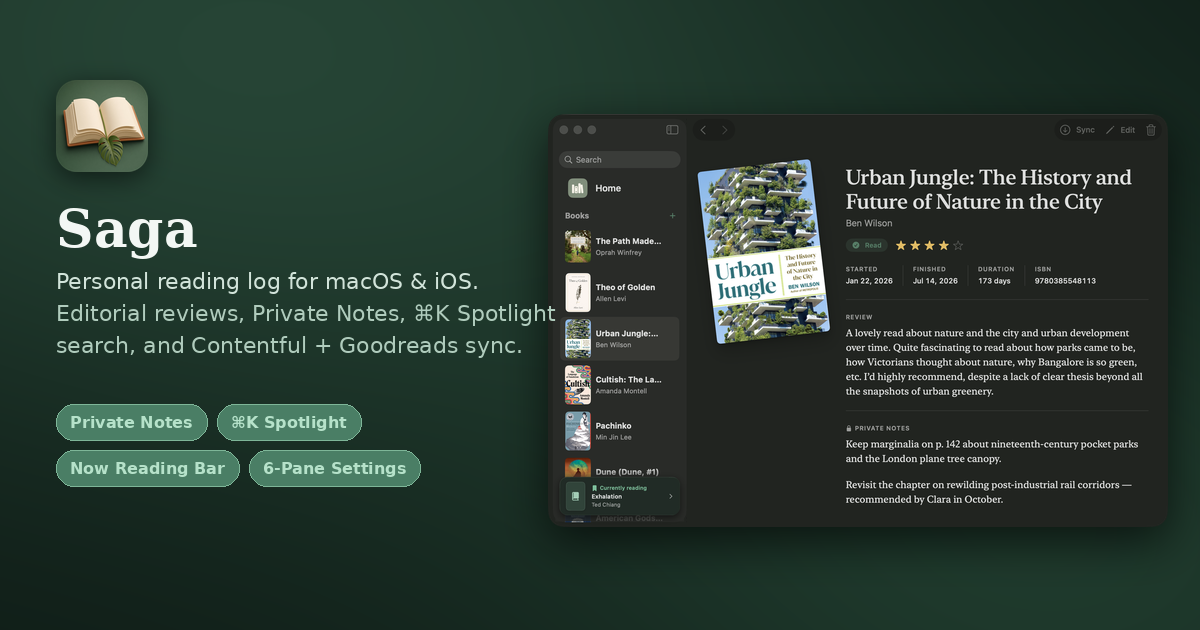
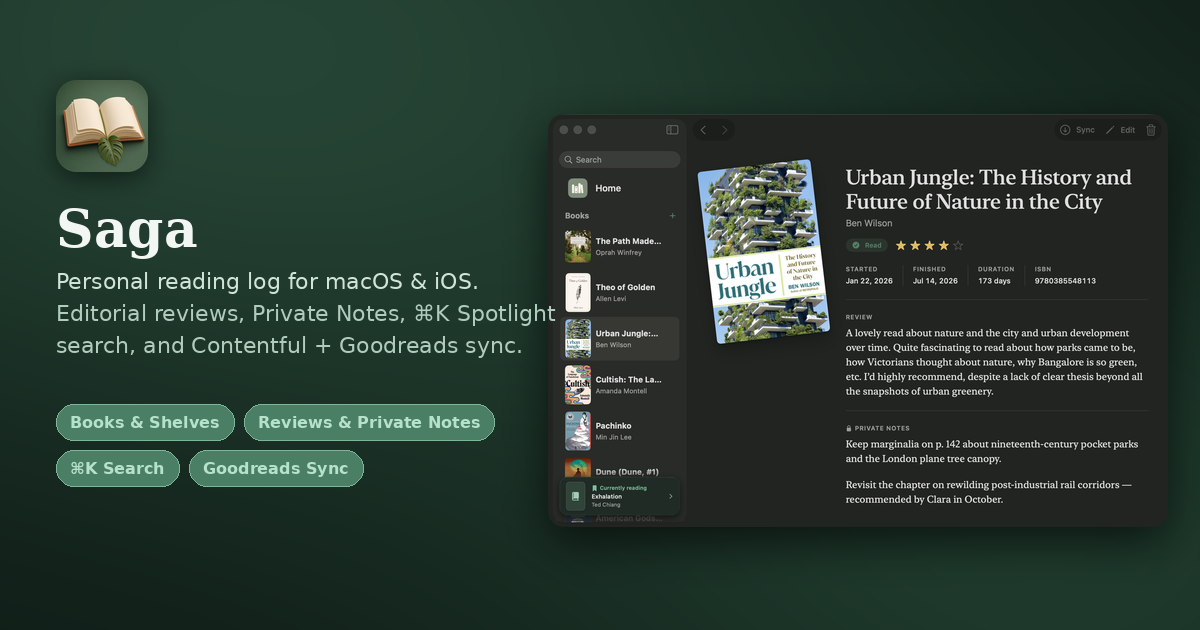
Keep saga.gattey.com landing page clean and reader-focused (remove Settings/About previews)

Changed region(s): [[0.0617, 0.6333, 0.4317, 0.7841]]

diff --git a/server/app/page.tsx b/server/app/page.tsx
@@ -1,5 +1,4 @@
 import { getMacOSRelease } from "@/lib/macos-release";
-import { PreviewShowcase } from "./PreviewShowcase";
 import styles from "./page.module.css";
 
 export const revalidate = 60;
@@ -11,7 +10,15 @@ export default async function HomePage() {
     <main className={styles.page}>
       <div className={styles.heroUnit}>
         <div className={styles.photoColumn}>
-          <PreviewShowcase />
+          {/* eslint-disable-next-line @next/next/no-img-element */}
+          <img
+            src="/saga-preview.png"
+            alt="Saga book library and reading tracker on macOS showing editorial reviews, private notes, and the Currently reading sidebar card"
+            width={1600}
+            height={1067}
+            fetchPriority="high"
+            className={styles.windowPreview}
+          />
         </div>
 
         <div className={styles.downloadColumn}>
@@ -21,11 +28,11 @@ export default async function HomePage() {
               <img
                 src="/icon-192.png"
                 alt="Saga app icon — open hardcover book with a monstera leaf bookmark"
-                width={60}
-                height={60}
+                width={56}
+                height={56}
                 className={styles.appIcon}
               />
-              <span className={styles.badge}>macOS · iOS · Apple Silicon</span>
+              <span className={styles.badge}>macOS 15+ · iOS · Apple Silicon</span>
             </div>
             <h1 className={styles.title}>Welcome to Saga</h1>
             <p className={styles.subtitle}>
@@ -39,14 +46,29 @@ export default async function HomePage() {
               <div className={styles.featureHeader}>
                 <span className={styles.featureIcon} aria-hidden="true">
                   <svg viewBox="0 0 16 16" fill="currentColor" width="14" height="14">
+                    <path d="M4.25 2A1.75 1.75 0 0 0 2.5 3.75v9.81a.75.75 0 0 0 1.22.58L8 10.72l4.28 3.42a.75.75 0 0 0 1.22-.58V3.75A1.75 1.75 0 0 0 11.75 2h-7.5Z" />
+                  </svg>
+                </span>
+                <strong className={styles.featureTitle}>Books & Active Reading</strong>
+              </div>
+              <p className={styles.featureBody}>
+                Track what you’re reading, finished dates, and star ratings with a pinned{" "}
+                <em>Currently reading</em> card always one click away.
+              </p>
+            </li>
+
+            <li className={styles.featureCard}>
+              <div className={styles.featureHeader}>
+                <span className={styles.featureIcon} aria-hidden="true">
+                  <svg viewBox="0 0 16 16" fill="currentColor" width="14" height="14">
                     <path d="M8 1.5a3.5 3.5 0 0 0-3.5 3.5v2H3.75A1.75 1.75 0 0 0 2 8.75v4.5C2 14.216 2.784 15 3.75 15h8.5A1.75 1.75 0 0 0 14 13.25v-4.5A1.75 1.75 0 0 0 12.25 7H11.5V5A3.5 3.5 0 0 0 8 1.5ZM6 5a2 2 0 1 1 4 0v2H6V5Z" />
                   </svg>
                 </span>
                 <strong className={styles.featureTitle}>Private Notes & Reviews</strong>
               </div>
               <p className={styles.featureBody}>
-                Editorial book layout with public reviews alongside a locked{" "}
-                <code>Private Notes</code> section that stays in Saga.
+                Editorial book pages pair public reviews with a locked <code>Private Notes</code>{" "}
+                section for personal quotes and marginalia.
               </p>
             </li>
 
@@ -57,11 +79,11 @@ export default async function HomePage() {
                     <path d="M11.5 7a4.5 4.5 0 1 1-9 0 4.5 4.5 0 0 1 9 0Zm-.82 4.74a6 6 0 1 1 1.06-1.06l2.79 2.79a.75.75 0 1 1-1.06 1.06l-2.79-2.79Z" />
                   </svg>
                 </span>
-                <strong className={styles.featureTitle}>⌘K Spotlight Search</strong>
+                <strong className={styles.featureTitle}>Instant ⌘K Search</strong>
               </div>
               <p className={styles.featureBody}>
-                Instant search across titles, reviews, and notes with <code>Has notes</code>,
-                status, star rating, and year filter tokens.
+                Jump to any book or search across full reviews and private notes with{" "}
+                <code>Has notes</code>, status, rating, and year tokens.
               </p>
             </li>
 
@@ -69,30 +91,14 @@ export default async function HomePage() {
               <div className={styles.featureHeader}>
                 <span className={styles.featureIcon} aria-hidden="true">
                   <svg viewBox="0 0 16 16" fill="currentColor" width="14" height="14">
-                    <path d="M4.25 2A1.75 1.75 0 0 0 2.5 3.75v9.81a.75.75 0 0 0 1.22.58L8 10.72l4.28 3.42a.75.75 0 0 0 1.22-.58V3.75A1.75 1.75 0 0 0 11.75 2h-7.5Z" />
+                    <path d="M8 2.5a5.487 5.487 0 0 0-4.131 1.869l1.204 1.204A.25.25 0 0 1 4.896 6H1.25A.25.25 0 0 1 1 5.75V2.104a.25.25 0 0 1 .427-.177l1.38 1.38A7.002 7.002 0 0 1 14.95 7.16a.75.75 0 0 1-1.49.178A5.5 5.5 0 0 0 8 2.5ZM1.705 8.005a.75.75 0 0 1 .834.656 5.5 5.5 0 0 0 9.592 2.97l-1.204-1.204a.25.25 0 0 1 .177-.427h3.646a.25.25 0 0 1 .25.25v3.646a.25.25 0 0 1-.427.177l-1.38-1.38A7.002 7.002 0 0 1 1.05 8.84a.75.75 0 0 1 .656-.835Z" />
                   </svg>
                 </span>
-                <strong className={styles.featureTitle}>Currently Reading Bar</strong>
+                <strong className={styles.featureTitle}>Cloud & Goodreads Sync</strong>
               </div>
               <p className={styles.featureBody}>
-                Crisp frosted floating bar pinned to the sidebar on macOS and iOS for one-click
-                access to your active book.
-              </p>
-            </li>
-
-            <li className={styles.featureCard}>
-              <div className={styles.featureHeader}>
-                <span className={styles.featureIcon} aria-hidden="true">
-                  <svg viewBox="0 0 16 16" fill="currentColor" width="14" height="14">
-                    <path d="M2 3.75A.75.75 0 0 1 2.75 3h6.5a.75.75 0 0 1 0 1.5h-6.5A.75.75 0 0 1 2 3.75Zm9.5 0a1.75 1.75 0 1 1 3.5 0 1.75 1.75 0 0 1-3.5 0ZM1.25 8a1.75 1.75 0 1 1 3.5 0 1.75 1.75 0 0 1-3.5 0ZM6.75 7.25a.75.75 0 0 0 0 1.5h6.5a.75.75 0 0 0 0-1.5h-6.5ZM2 12.25a.75.75 0 0 1 .75-.75h6.5a.75.75 0 0 1 0 1.5h-6.5a.75.75 0 0 1-.75-.75Zm9.5 0a1.75 1.75 0 1 1 3.5 0 1.75 1.75 0 0 1-3.5 0Z" />
-                  </svg>
-                </span>
-                <strong className={styles.featureTitle}>6-Pane Native Settings</strong>
-              </div>
-              <p className={styles.featureBody}>
-                Categorized <code>General</code>, <code>Sync</code>, <code>Storage</code>,{" "}
-                <code>Animations</code>, <code>Credits</code>, and <code>About</code> panes with
-                stepped cache sliders.
+                Two-way Contentful sync and automatic Goodreads shelf imports keep your library up
+                to date across macOS and iOS.
               </p>
             </li>
           </ul>

diff --git a/server/app/page.module.css b/server/app/page.module.css
@@ -4,15 +4,12 @@
   --glass-base: #0e1a15;
   --glass-tint: rgba(74, 126, 101, 0.16);
   --card-bg: rgba(255, 255, 255, 0.045);
-  --card-bg-active: rgba(93, 148, 120, 0.16);
   --card-border: rgba(255, 255, 255, 0.1);
-  --card-border-active: rgba(132, 194, 160, 0.48);
   --badge-bg: rgba(107, 152, 129, 0.16);
   --badge-border: rgba(107, 152, 129, 0.32);
   --badge-text: #a8d4bc;
   --text: #f3f7f4;
   --text-secondary: rgba(226, 238, 231, 0.74);
-  --text-muted: rgba(202, 220, 210, 0.58);
   --frame: #14241d;
   --divider: rgba(255, 255, 255, 0.1);
 
@@ -20,7 +17,7 @@
   display: flex;
   align-items: center;
   justify-content: center;
-  padding: 44px 40px;
+  padding: 56px 40px;
   color: var(--text);
   overflow-y: auto;
   background:
@@ -36,15 +33,12 @@
     --glass-base: #f2f5f0;
     --glass-tint: rgba(38, 78, 58, 0.08);
     --card-bg: rgba(255, 255, 255, 0.72);
-    --card-bg-active: rgba(46, 94, 70, 0.11);
     --card-border: rgba(24, 52, 38, 0.12);
-    --card-border-active: rgba(38, 78, 58, 0.45);
     --badge-bg: rgba(38, 78, 58, 0.09);
     --badge-border: rgba(38, 78, 58, 0.24);
     --badge-text: #214734;
     --text: #13221a;
     --text-secondary: rgba(19, 34, 26, 0.76);
-    --text-muted: rgba(19, 34, 26, 0.56);
     --frame: #ffffff;
     --divider: rgba(19, 34, 26, 0.12);
 
@@ -60,7 +54,7 @@
 }
 
 .heroUnit {
-  width: min(100%, 1240px);
+  width: min(100%, 1200px);
   display: flex;
   align-items: center;
   gap: 48px;
@@ -73,104 +67,18 @@
   justify-content: flex-end;
 }
 
-.showcase {
-  width: 100%;
-  max-width: 680px;
-  display: flex;
-  flex-direction: column;
-  gap: 14px;
-}
-
-.stageFrame {
-  width: 100%;
-  aspect-ratio: 1600 / 1067;
-  display: flex;
-  align-items: center;
-  justify-content: center;
-}
-
 .windowPreview {
   display: block;
   width: 100%;
-  max-height: 100%;
-  width: auto;
-  max-width: 100%;
+  max-width: 660px;
   height: auto;
   border-radius: 12px;
-  filter: drop-shadow(0 22px 48px rgba(0, 0, 0, 0.48));
-}
-
-.previewStrip {
-  display: grid;
-  grid-template-columns: repeat(4, minmax(0, 1fr));
-  gap: 10px;
-}
-
-.previewThumbButton {
-  appearance: none;
-  display: flex;
-  flex-direction: column;
-  align-items: flex-start;
-  gap: 5px;
-  padding: 8px;
-  border-radius: 10px;
-  border: 1px solid var(--card-border);
-  background: var(--card-bg);
-  color: var(--text);
-  text-align: left;
-  cursor: pointer;
-  transition: border-color 0.15s ease, background-color 0.15s ease, transform 0.12s ease;
-}
-
-.previewThumbButton:hover {
-  border-color: var(--card-border-active);
-}
-
-.previewThumbActive {
-  background: var(--card-bg-active);
-  border-color: var(--card-border-active);
-  box-shadow: 0 4px 14px rgba(0, 0, 0, 0.16);
-}
-
-.previewThumbMedia {
-  width: 100%;
-  aspect-ratio: 16 / 10.6;
-  border-radius: 6px;
-  overflow: hidden;
-  background: rgba(10, 18, 14, 0.55);
-  display: flex;
-  align-items: center;
-  justify-content: center;
-}
-
-.previewThumbImg {
-  display: block;
-  width: 100%;
-  height: 100%;
-  object-fit: cover;
-  object-position: top center;
-}
-
-.previewThumbLabel {
-  font-size: 0.75rem;
-  font-weight: 600;
-  line-height: 1.25;
-  color: var(--text);
-}
-
-.previewThumbCaption {
-  font-size: 0.675rem;
-  line-height: 1.3;
-  color: var(--text-muted);
-  display: -webkit-box;
-  -webkit-line-clamp: 2;
-  -webkit-box-orient: vertical;
-  overflow: hidden;
+  filter: drop-shadow(0 24px 56px rgba(0, 0, 0, 0.52));
 }
 
 .downloadColumn {
   flex: 0 0 auto;
-  width: min(100%, 496px);
+  width: min(100%, 488px);
   display: flex;
   flex-direction: column;
   align-items: stretch;
@@ -188,12 +96,12 @@
   display: flex;
   align-items: center;
   gap: 14px;
-  margin-bottom: 2px;
+  margin-bottom: 4px;
 }
 
 .appIcon {
-  width: 60px;
-  height: 60px;
+  width: 56px;
+  height: 56px;
   border-radius: 14px;
   box-shadow: 0 8px 24px rgba(0, 0, 0, 0.35);
 }
@@ -213,15 +121,15 @@
 .title {
   margin: 0;
   font-family: Georgia, "Iowan Old Style", "Palatino Linotype", "Book Antiqua", serif;
-  font-size: clamp(1.85rem, 3.8vw, 2.45rem);
+  font-size: clamp(1.85rem, 4vw, 2.5rem);
   font-weight: 700;
-  line-height: 1.14;
+  line-height: 1.15;
   letter-spacing: -0.02em;
 }
 
 .subtitle {
   margin: 0;
-  font-size: clamp(0.975rem, 2.2vw, 1.08rem);
+  font-size: clamp(1rem, 2.3vw, 1.125rem);
   line-height: 1.5;
   color: var(--text-secondary);
 }
@@ -292,7 +200,7 @@
   display: flex;
   flex-direction: column;
   align-items: stretch;
-  gap: 14px;
+  gap: 16px;
 }
 
 .downloadButton {
@@ -450,7 +358,7 @@
   color: var(--text-secondary);
 }
 
-@media (max-width: 1024px) {
+@media (max-width: 960px) {
   .page {
     padding: 28px 20px 36px;
   }
@@ -470,29 +378,25 @@
     justify-content: center;
   }
 
-  .showcase {
-    max-width: min(100%, 640px);
+  .windowPreview {
+    max-width: min(100%, 600px);
     margin: 0 auto;
   }
 
   .downloadColumn {
-    width: min(100%, 640px);
+    width: min(100%, 600px);
     margin: 0 auto;
     gap: 24px;
   }
 }
 
-@media (max-width: 600px) {
+@media (max-width: 540px) {
   .page {
     padding: 16px 16px 24px;
   }
 
   .heroUnit {
     gap: 24px;
-  }
-
-  .previewStrip {
-    grid-template-columns: repeat(2, minmax(0, 1fr));
   }
 
   .featureGrid {
